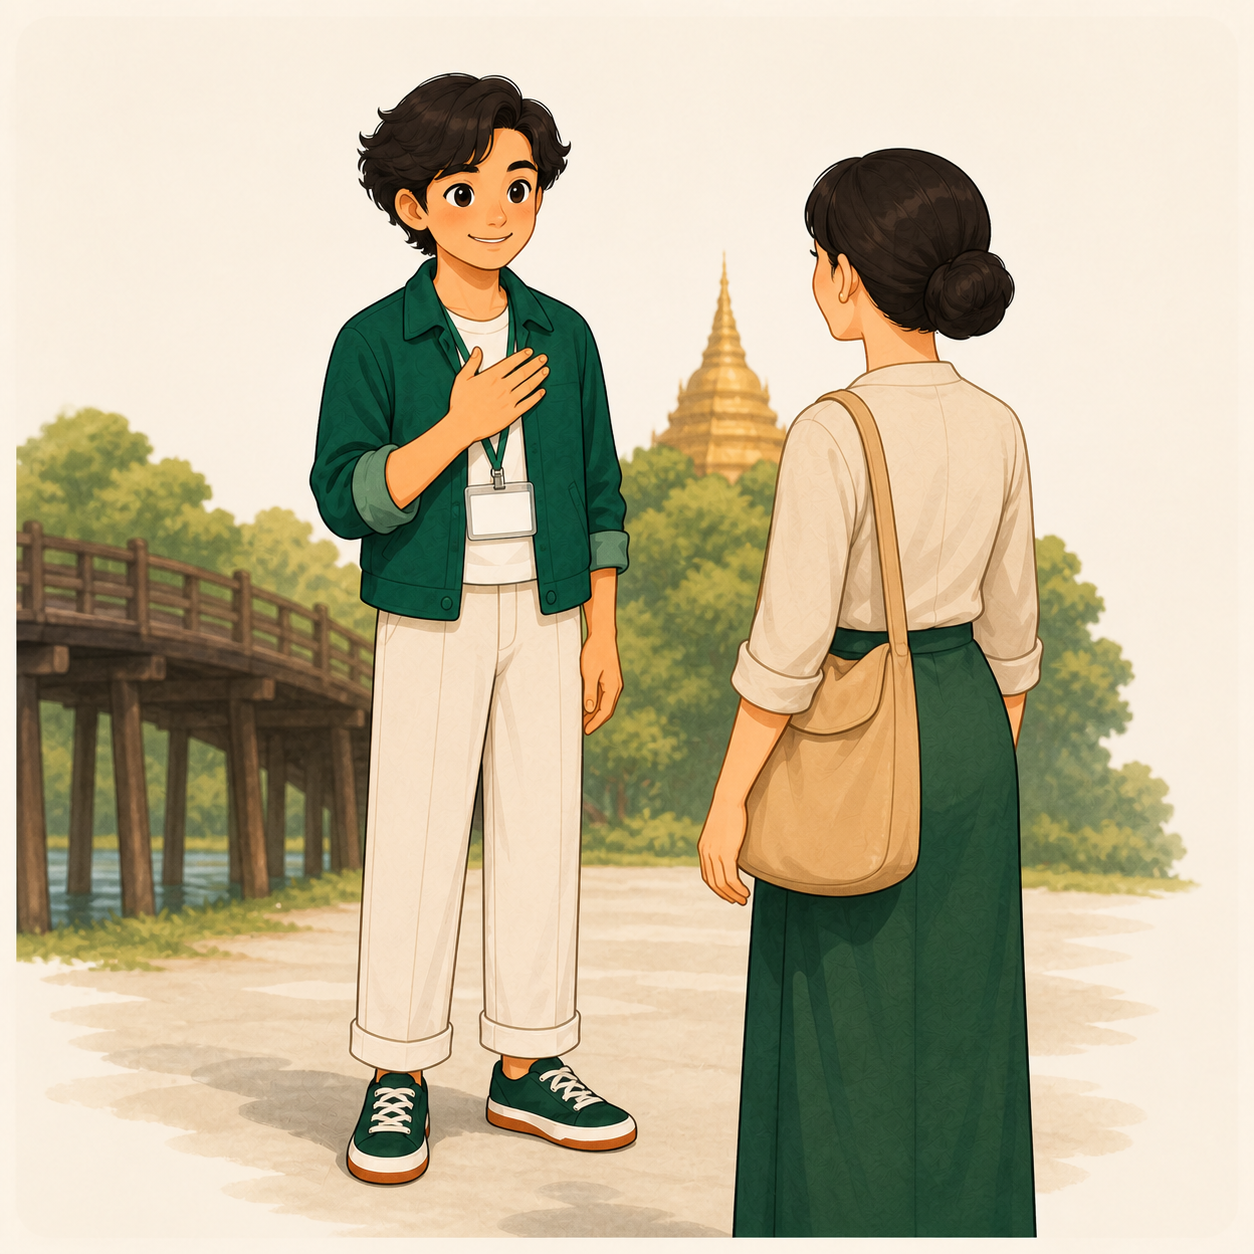
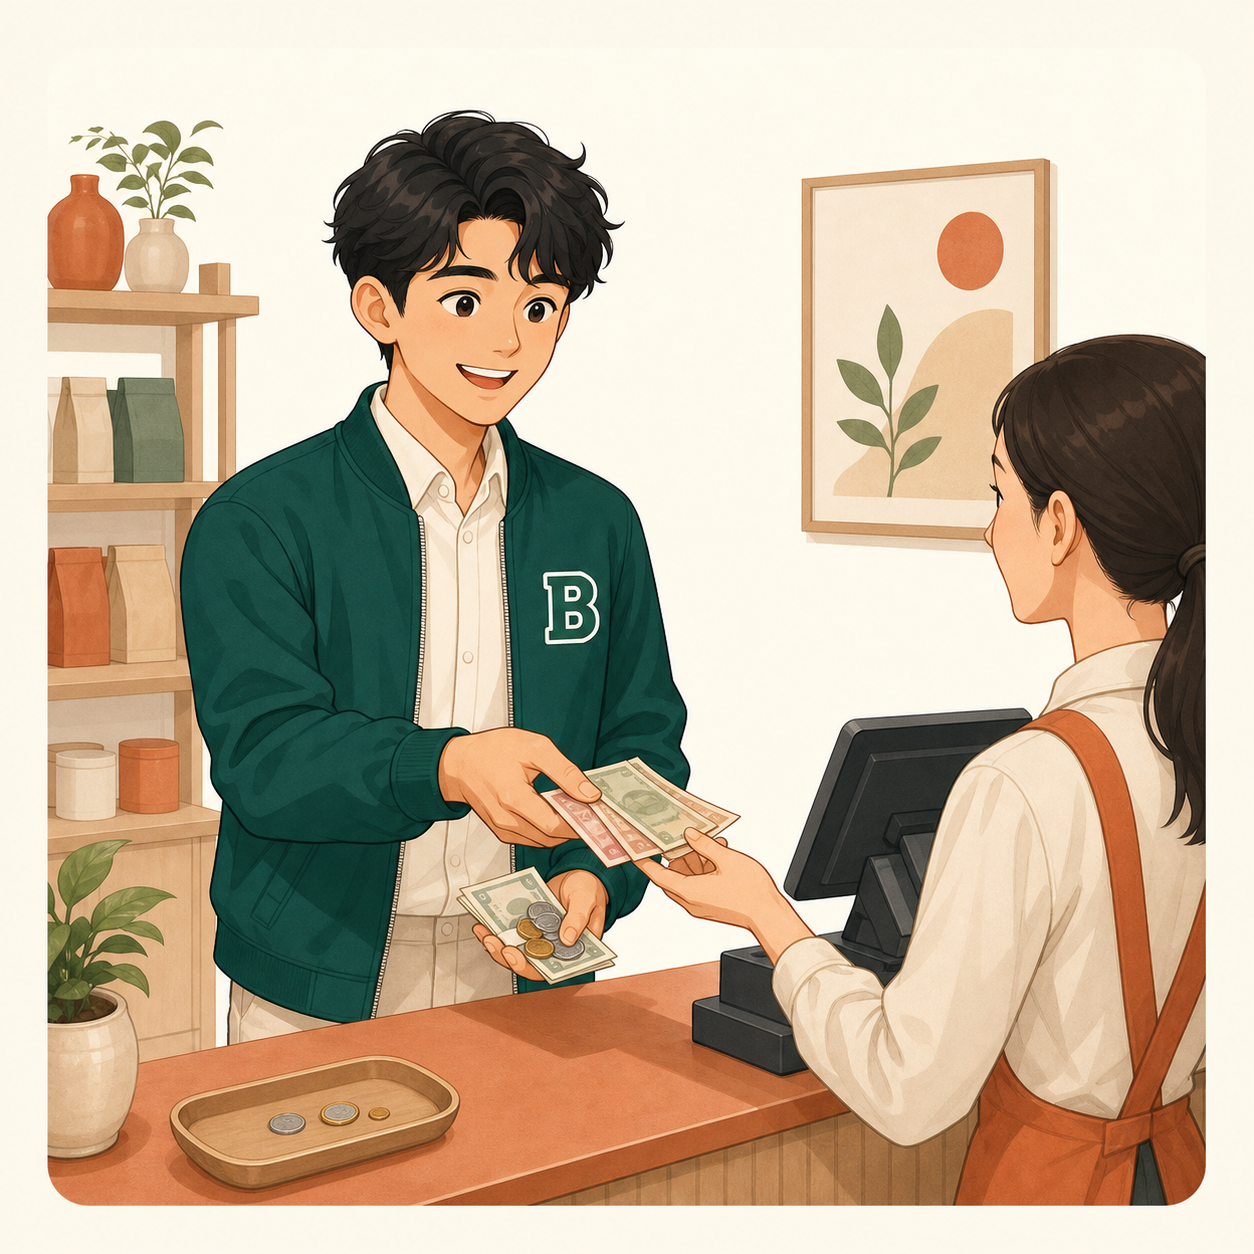
Fix money illustration and lock IP palette

diff --git a/docs/HSK-VOCABULARY-ART-STANDARD.md b/docs/HSK-VOCABULARY-ART-STANDARD.md
@@ -4,11 +4,11 @@ This file is the persistent production standard for every HSK vocabulary illustr
 
 - Produce original square artwork at a consistent source size and display it with `object-fit: contain`.
 - Keep every important subject inside the central 80% safe area with generous margins. Never crop heads, hands, feet, logos, or the teaching object.
-- Use BurmeseBridge IP V2: the recurring friendly young Asian learning guide, dark BurmeseBridge green jacket, cream clothing, green sneakers, and green crossbody bag.
-- A clean white-outlined green `B` brand mark must be visibly integrated on both the jacket chest and the bag. Do not add third-party marks.
-- Use warm ivory backgrounds, forest green and muted terracotta accents, soft natural light, and a polished editorial anime illustration style.
-- Communicate one vocabulary meaning clearly through the scene. Do not place Chinese, Burmese, English captions, or unreliable generated text inside the artwork.
+- Use BurmeseBridge IP V2: the recurring friendly young Asian learning guide with the same wavy black hair, facial proportions, skin tone, and polished editorial-anime line work.
+- Lock the palette: jacket `#0E5A49`, warm ivory background `#FFF8ED`, cream clothing, restrained terracotta accents, and soft natural light. Do not drift toward blue-green, neon green, yellow-green, or heavily saturated skin tones.
+- A crisp white-outlined green `B` brand mark on the character's outer clothing is mandatory and must remain visible. The green crossbody bag is optional: include it only when natural for the scene, and omit it when it obstructs the action or teaching object. If a bag is present, it should also carry the `B` mark.
+- Communicate one vocabulary meaning clearly through a believable, lively action and scene. Props, body language, location, time, and relationships must support the exact word rather than merely decorate the image. Do not place Chinese, Burmese, English captions, or unreliable generated text inside the artwork.
 - Keep Burmese definitions and accessible Burmese alt text in `lib/hskVocabularyMy.ts`.
-- Generate and review assets in batches of 20. Confirm semantic accuracy, logo presence, safe-area composition, consistent character identity, and file integrity before deployment.
+- Generate and review assets in batches of 20. Confirm semantic accuracy first, then clothing-logo presence, palette compliance, scene logic, safe-area composition, consistent character identity, and file integrity before deployment. Never infer filename-to-word mapping from generation order; inspect each final image before binding it to vocabulary data.
 - Store final project assets under `public/images/hsk/vocabulary/` and use stable names beginning with `hsk<level>-`.
 - Generated artwork is BurmeseBridge-owned project material; keep source provenance and do not use copyrighted third-party characters or artwork.
